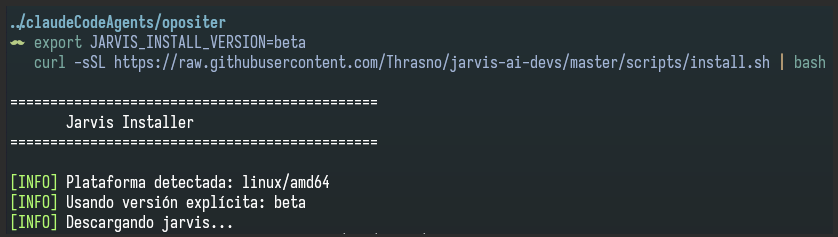
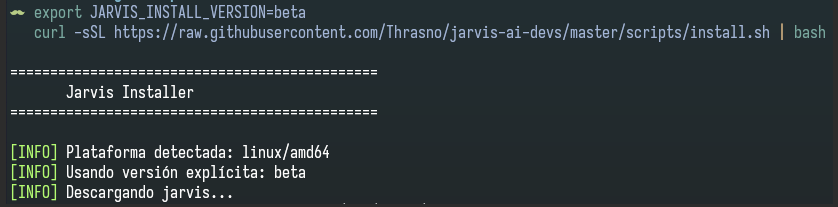
docs(onboarding): show beta installer and focus installation guides

diff --git a/docs/presentaciones/ubuntu-onboarding.html b/docs/presentaciones/ubuntu-onboarding.html
@@ -53,25 +53,22 @@ footer{padding:1rem 0 2rem;color:var(--muted)}
 </div>
 <p class="kicker">Jarvis · Ubuntu/Linux · guía editable</p>
 <h1>Tu primera sesión con Jarvis</h1>
-<p>Un recorrido sugerido para instalar, configurar y comprobar Jarvis. Los hitos de los primeros 15 minutos son orientativos, no tiempos garantizados ni resultados de una instalación observada.</p>
+<p>Un recorrido sugerido para preparar, instalar y configurar Jarvis. Los pasos son orientativos, no tiempos garantizados ni resultados de una instalación observada.</p>
 </header>
 <main id="contenido">
 <section aria-labelledby="ruta">
-<h2 id="ruta">Ruta orientativa de los primeros 15 minutos</h2>
-<p>Hitos sugeridos, no plazos ni resultados observados. Detente si necesitas soporte.</p>
+<h2 id="ruta">Ruta orientativa de instalación</h2>
+<p>Pasos sugeridos, no plazos ni resultados observados. Detente si necesitas soporte.</p>
 <ol>
 <li><strong>Preparar:</strong> confirma terminal, red y agente elegido. Criterio observable: puedes abrir la terminal e identificar la integración prevista.</li>
 <li><strong>Instalar:</strong> ejecuta el comando documentado. Criterio observable: la terminal reconoce <code>jarvis</code> o registras el fallo.</li>
 <li><strong>Configurar:</strong> abre <code>jarvis</code>. Criterio observable: completas el asistente o identificas dónde se detuvo.</li>
-<li><strong>Verificar:</strong> ejecuta <code>jarvis verify --provider all</code>. Criterio observable: obtienes diagnósticos reales, incluso si muestran incidencias; esto no acredita memoria ni sincronización.</li>
 </ol>
 </section>
 <nav aria-label="Contenido"><strong>En esta guía</strong><ul>
 <li><a href="#antes">Antes de empezar</a></li>
 <li><a href="#instalar">Instalar</a></li>
 <li><a href="#configurar">Configurar</a></li>
-<li><a href="#comprobar">Comprobar</a></li>
-<li><a href="#seguir">Continuar</a></li>
 <li><a href="glosario-jarvis.html">Glosario de Jarvis</a></li>
 </ul></nav>
 <section id="antes">
@@ -83,8 +80,12 @@ footer{padding:1rem 0 2rem;color:var(--muted)}
 <h2>2. Hito sugerido: instalar</h2>
 <p>En la terminal, ejecuta el instalador documentado para la última versión de producción publicada. Revisa el origen del script según la política de tu organización. Este comando no acredita por sí solo una instalación limpia verificada.</p>
 <pre><code>curl -sSL https://raw.githubusercontent.com/Thrasno/jarvis-ai-devs/master/scripts/install.sh | bash</code></pre>
+<p><strong>Opcional: canal beta (no producción).</strong> Si tu equipo te ha indicado probar la beta, usa estos comandos en la terminal en lugar del anterior. La variable selecciona la versión pública <code>beta</code>; no es el procedimiento de instalación estable.</p>
+<pre><code>export JARVIS_INSTALL_VERSION=beta
+curl -sSL https://raw.githubusercontent.com/Thrasno/jarvis-ai-devs/master/scripts/install.sh | bash</code></pre>
 <p>Según la documentación, el instalador instala en <code>/usr/local/bin</code>. Comprueba que esa ubicación esté en el PATH; si hay problemas de permisos o descarga, no cambies la política del sistema a ciegas: consulta con soporte.</p>
-<figure><div class="placeholder">[INSERTAR CAPTURA AQUI] #Captura instalación en terminal Ubuntu sin datos personales</div><figcaption>Insertar una captura real del instalador, no una salida ilustrativa.</figcaption></figure>
+<figure><img src="capturas/BetaInstallerStart.png" alt="Inicio del instalador beta en terminal Linux/amd64: versión beta seleccionada y descarga de Jarvis en curso"><figcaption>Inicio observado del instalador beta en Linux/amd64; la descarga está en curso. No demuestra una instalación finalizada.</figcaption></figure>
+<p class="callout"><strong>Alcance de la evidencia:</strong> la captura muestra solo el inicio de la descarga beta en Linux/amd64. No acredita una instalación completa ni el resultado del instalador estable; las capturas del asistente tampoco prueban esos resultados.</p>
 </section>
 <section id="configurar">
 <h2>3. Hito sugerido: primera configuración</h2>
@@ -102,29 +103,8 @@ footer{padding:1rem 0 2rem;color:var(--muted)}
 <figure><img src="capturas/MCPConfirmation.png" alt="Advertencia sobre sustitución de MCP gestionados con el mismo nombre"><figcaption>Si aparece esta advertencia, revisa la posible sustitución de configuraciones MCP manuales antes de confirmar; no sigas a ciegas.</figcaption></figure>
 <figure><img src="capturas/StatusLineConfig.png" alt="Pregunta sobre sobrescribir una barra de estado de Claude existente"><figcaption>Solo si ya existe una barra de estado de Claude: decide si conservarla o sustituirla por la gestionada por Jarvis.</figcaption></figure>
 </section>
-<section id="comprobar">
-<h2>4. Hito sugerido: verificar</h2>
-<p>Después de completar el asistente, utiliza Jarvis para comprobar las configuraciones disponibles:</p>
-<pre><code>jarvis verify --provider all</code></pre>
-<p><strong>Qué significa:</strong> el comando aporta diagnósticos de la configuración local. Revisa los resultados para distinguir integraciones configuradas de proveedores no seleccionados o pendientes. Una ejecución sin errores relevantes para tu integración no demuestra por sí sola autenticación del agente, arranque de Hive, sincronización compartida ni persistencia de memoria.</p>
-<figure><div class="placeholder">[INSERTAR CAPTURA AQUI] #Captura salida real de jarvis verify --provider all en Ubuntu</div><figcaption>Incluir el resultado observado y las incidencias, si las hubiera; no fabricar una salida «correcta».</figcaption></figure>
-<p class="callout"><strong>Evidencia pendiente:</strong> las capturas del asistente compartido no sustituyen las capturas de instalación, de <code>jarvis verify</code> ni de una incidencia observada en Ubuntu. Faltan esos resultados verificables y la primera experiencia de memoria en el equipo de destino. La prueba de memoria con el agente se mostrará en la demo o sesión individual; esta guía no la da por superada.</p>
-<h3>Si algo falla</h3>
-<p>Si falla la descarga, comprueba la red y el acceso al origen con soporte. Si <code>jarvis</code> no se encuentra, comprueba el PATH y los permisos de instalación sin alterar la seguridad del sistema. Si la verificación señala una integración, revisa la selección en <code>jarvis</code> y consulta <a href="../installation.md">instalación</a>, <a href="../getting-started.md">primeros pasos</a> y <a href="../configuration.md">configuración</a>; traslada el mensaje exacto, sin credenciales, al equipo responsable.</p>
-<figure><div class="placeholder">[INSERTAR CAPTURA AQUI] #Captura diagnóstico de error o integración pendiente en Ubuntu</div><figcaption>Usar solo si esa incidencia se observa realmente.</figcaption></figure>
-</section>
-<section id="seguir">
-<h2>5. Elige tu siguiente paso</h2>
-<ul>
-<li><strong>Desarrollador:</strong> abre un repositorio de prueba con el agente seleccionado y comprueba que carga la configuración generada.</li>
-<li><strong>Responsable de equipo:</strong> acuerda con el grupo qué agente se configurará y reúne incidencias de la verificación sin recopilar secretos.</li>
-<li><strong>Administrador de Hive:</strong> prepara por separado el daemon local y, si procede, las credenciales y políticas del Hive API; consulta <a href="../configuration.md">configuración</a>.</li>
-<li><strong>Evaluador:</strong> anota versión, selección y resultado real de verificación, incluidos los pasos no comprobados.</li>
-<li><strong>Formador:</strong> reserva una demostración guiada del comportamiento de memoria a través del agente; no presentes una captura pendiente como prueba.</li>
-</ul>
-</section>
 </main>
-<footer><p><strong>Editar esta fuente:</strong> abre este archivo HTML en un editor de texto. Sustituye los marcadores pendientes por imágenes locales sanitizadas, por ejemplo <code>&lt;img src="capturas/instalacion-ubuntu.png" alt="Resultado real del instalador en Ubuntu"&gt;</code>, con texto alternativo descriptivo; guarda la imagen junto a la guía antes de distribuirla sin conexión. No insertes secretos, rutas personales ni imágenes remotas. Actualiza también las afirmaciones de evidencia tras la prueba.</p></footer>
+<footer><p><strong>Editar esta fuente:</strong> abre este archivo HTML en un editor de texto. Si se añaden capturas reales del resultado, guárdalas como imágenes locales sanitizadas junto a la guía e incluye texto alternativo descriptivo. No insertes secretos, rutas personales ni imágenes remotas. Actualiza las afirmaciones de evidencia tras la prueba.</p></footer>
 </div>
 </body>
 </html>

diff --git a/docs/presentaciones/windows-onboarding.html b/docs/presentaciones/windows-onboarding.html
@@ -53,25 +53,22 @@ footer{padding:1rem 0 2rem;color:var(--muted)}
 </div>
 <p class="kicker">Jarvis · Windows PowerShell · guía editable</p>
 <h1>Tu primera sesión con Jarvis</h1>
-<p>Un recorrido sugerido para instalar, configurar y comprobar Jarvis. Los hitos de los primeros 15 minutos son orientativos, no tiempos garantizados ni resultados de una instalación observada.</p>
+<p>Un recorrido sugerido para preparar, instalar y configurar Jarvis. Los pasos son orientativos, no tiempos garantizados ni resultados de una instalación observada.</p>
 </header>
 <main id="contenido">
 <section aria-labelledby="ruta">
-<h2 id="ruta">Ruta orientativa de los primeros 15 minutos</h2>
-<p>Hitos sugeridos, no plazos ni resultados observados. Detente si necesitas soporte.</p>
+<h2 id="ruta">Ruta orientativa de instalación</h2>
+<p>Pasos sugeridos, no plazos ni resultados observados. Detente si necesitas soporte.</p>
 <ol>
 <li><strong>Preparar:</strong> confirma terminal, red y agente elegido. Criterio observable: puedes abrir PowerShell e identificar la integración prevista.</li>
 <li><strong>Instalar:</strong> ejecuta el comando documentado. Criterio observable: PowerShell reconoce <code>jarvis</code> o registras el fallo.</li>
 <li><strong>Configurar:</strong> abre <code>jarvis</code>. Criterio observable: completas el asistente o identificas dónde se detuvo.</li>
-<li><strong>Verificar:</strong> ejecuta <code>jarvis verify --provider all</code>. Criterio observable: obtienes diagnósticos reales, incluso si muestran incidencias; esto no acredita memoria ni sincronización.</li>
 </ol>
 </section>
 <nav aria-label="Contenido"><strong>En esta guía</strong><ul>
 <li><a href="#antes">Antes de empezar</a></li>
 <li><a href="#instalar">Instalar</a></li>
 <li><a href="#configurar">Configurar</a></li>
-<li><a href="#comprobar">Comprobar</a></li>
-<li><a href="#seguir">Continuar</a></li>
 <li><a href="glosario-jarvis.html">Glosario de Jarvis</a></li>
 </ul></nav>
 <section id="antes">
@@ -83,8 +80,12 @@ footer{padding:1rem 0 2rem;color:var(--muted)}
 <h2>2. Hito sugerido: instalar</h2>
 <p>Abre PowerShell y ejecuta el instalador documentado para la última versión de producción publicada. Revisa el origen del script según la política de tu organización. Este comando no acredita por sí solo una instalación limpia verificada.</p>
 <pre><code>irm https://raw.githubusercontent.com/Thrasno/jarvis-ai-devs/master/scripts/install.ps1 | iex</code></pre>
+<p><strong>Opcional: canal beta (no producción).</strong> Si tu equipo te ha indicado probar la beta, usa estos comandos en PowerShell en lugar del anterior. La variable selecciona la versión pública <code>beta</code>; no es el procedimiento de instalación estable.</p>
+<pre><code>$env:JARVIS_INSTALL_VERSION = "beta"
+irm https://raw.githubusercontent.com/Thrasno/jarvis-ai-devs/master/scripts/install.ps1 | iex</code></pre>
 <p>Según la documentación, el instalador coloca Jarvis en <code>%LOCALAPPDATA%\Programs\jarvis</code> y añade esa ubicación al PATH de usuario. Si el comando no aparece al terminar, abre una nueva sesión de PowerShell antes de diagnosticar el PATH.</p>
 <figure><div class="placeholder">[INSERTAR CAPTURA AQUI] #Captura instalación en PowerShell sin datos personales</div><figcaption>Insertar una captura real del instalador, no una salida ilustrativa.</figcaption></figure>
+<p class="callout"><strong>Evidencia pendiente:</strong> la captura de inicio del instalador beta disponible para Linux/amd64 no demuestra una instalación finalizada ni acredita el instalador de Windows. Aún falta una captura real de instalación en PowerShell; las capturas del asistente tampoco la sustituyen.</p>
 </section>
 <section id="configurar">
 <h2>3. Hito sugerido: primera configuración</h2>
@@ -101,27 +102,6 @@ footer{padding:1rem 0 2rem;color:var(--muted)}
 <figure><img src="capturas/SDDModelConfirmation.png" alt="Resumen de alcance, persona y modelos por fase con el correo oculto"><figcaption>Comprueba el resumen antes de aplicar los cambios. El correo original está oculto; los modelos y las opciones de confirmación se muestran completos.</figcaption></figure>
 <figure><img src="capturas/MCPConfirmation.png" alt="Advertencia sobre sustitución de MCP gestionados con el mismo nombre"><figcaption>Si aparece esta advertencia, revisa la posible sustitución de configuraciones MCP manuales antes de confirmar; no sigas a ciegas.</figcaption></figure>
 <figure><img src="capturas/StatusLineConfig.png" alt="Pregunta sobre sobrescribir una barra de estado de Claude existente"><figcaption>Solo si ya existe una barra de estado de Claude: decide si conservarla o sustituirla por la gestionada por Jarvis.</figcaption></figure>
-</section>
-<section id="comprobar">
-<h2>4. Hito sugerido: verificar</h2>
-<p>Después de completar el asistente, utiliza Jarvis para comprobar las configuraciones disponibles:</p>
-<pre><code>jarvis verify --provider all</code></pre>
-<p><strong>Qué significa:</strong> el comando aporta diagnósticos de la configuración local. Revisa los resultados para distinguir integraciones configuradas de proveedores no seleccionados o pendientes. Una ejecución sin errores relevantes para tu integración no demuestra por sí sola autenticación del agente, arranque de Hive, sincronización compartida ni persistencia de memoria.</p>
-<figure><div class="placeholder">[INSERTAR CAPTURA AQUI] #Captura salida real de jarvis verify --provider all en Windows</div><figcaption>Incluir el resultado observado y las incidencias, si las hubiera; no fabricar una salida «correcta».</figcaption></figure>
-<p class="callout"><strong>Evidencia pendiente:</strong> las capturas del asistente compartido no sustituyen las capturas de instalación, de <code>jarvis verify</code> ni de una incidencia observada en Windows. Faltan esos resultados verificables y la primera experiencia de memoria en el equipo de destino. La prueba de memoria con el agente se mostrará en la demo o sesión individual; esta guía no la da por superada.</p>
-<h3>Si algo falla</h3>
-<p>Si falla la descarga, comprueba la red, el acceso al origen y las políticas de PowerShell con soporte. Si <code>jarvis</code> no se reconoce, vuelve a abrir PowerShell y comprueba el PATH de usuario. Si la verificación señala una integración, revisa la selección en <code>jarvis</code> y consulta <a href="../installation.md">instalación</a>, <a href="../getting-started.md">primeros pasos</a> y <a href="../configuration.md">configuración</a>; traslada el mensaje exacto, sin credenciales, al equipo responsable.</p>
-<figure><div class="placeholder">[INSERTAR CAPTURA AQUI] #Captura diagnóstico de error o integración pendiente en Windows</div><figcaption>Usar solo si esa incidencia se observa realmente.</figcaption></figure>
-</section>
-<section id="seguir">
-<h2>5. Elige tu siguiente paso</h2>
-<ul>
-<li><strong>Desarrollador:</strong> abre un repositorio de prueba con el agente seleccionado y comprueba que carga la configuración generada.</li>
-<li><strong>Responsable de equipo:</strong> acuerda con el grupo qué agente se configurará y reúne incidencias de la verificación sin recopilar secretos.</li>
-<li><strong>Administrador de Hive:</strong> prepara por separado el daemon local y, si procede, las credenciales y políticas del Hive API; consulta <a href="../configuration.md">configuración</a>.</li>
-<li><strong>Evaluador:</strong> anota versión, selección y resultado real de verificación, incluidos los pasos no comprobados.</li>
-<li><strong>Formador:</strong> reserva una demostración guiada del comportamiento de memoria a través del agente; no presentes una captura pendiente como prueba.</li>
-</ul>
 </section>
 </main>
 <footer><p><strong>Editar esta fuente:</strong> abre este archivo HTML en un editor de texto. Sustituye los marcadores pendientes por imágenes locales sanitizadas, por ejemplo <code>&lt;img src="capturas/instalacion-windows.png" alt="Resultado real del instalador en PowerShell"&gt;</code>, con texto alternativo descriptivo; guarda la imagen junto a la guía antes de distribuirla sin conexión. No insertes secretos, rutas personales ni imágenes remotas. Actualiza también las afirmaciones de evidencia tras la prueba.</p></footer>

diff --git a/odd/tasks/issue-491-editable-installation-guides.md b/odd/tasks/issue-491-editable-installation-guides.md
@@ -4,9 +4,9 @@ Objective: Provide source-editable, standalone Nexus HTML onboarding guides unde
 
 Problem/evidence: Existing `docs/getting-started.md` and `docs/installation.md` cover text-only quick starts, but #491 requests visual onboarding. The user explicitly chose standalone HTML as the editable format, confirmed the clean platform installs happened on test machines, and will insert actual sanitized captures where placeholders are provided. This work must not invent screenshots, observed timings, product success or transparent memory persistence.
 
-Scope: `docs/presentaciones/windows-onboarding.html`, `docs/presentaciones/ubuntu-onboarding.html`, shared sanitized PNGs under `docs/presentaciones/capturas/`, a local ZIP-ignore rule, plus existing entry links from `docs/getting-started.md` and `docs/installation.md`. User now supplied ten actual wizard PNGs in `capturas/pantallasJarvisDevs.zip` and explicitly authorized embedding the shared flow in both guides. Do not change the original ZIP or treat wizard screenshots as proof of platform-specific installer/verify commands. Match the Nexus brand from `docs/advisory-review-lite-audit.html`; inline CSS/SVG, no external runtime dependencies. Only unsupplied evidence remains marked `[INSERTAR CAPTURA AQUI] #Captura <specific subject>`; supplied wizard screenshots replace their matching placeholders. HTML source stays editable in an ordinary text editor; do not generate a locked PDF/PPT. Include product-accurate install commands, prerequisites, wizard choices as observed/conditional, verification, failure route and role-next-step example. Do not teach manual memory commands as a novice task; the user reserves the memory demonstration for team demo/1:1 sessions.
+Scope: `docs/presentaciones/windows-onboarding.html`, `docs/presentaciones/ubuntu-onboarding.html`, shared sanitized PNGs under `docs/presentaciones/capturas/`, a local ZIP-ignore rule, plus existing entry links from `docs/getting-started.md` and `docs/installation.md`. User now supplied ten actual wizard PNGs in `capturas/pantallasJarvisDevs.zip` and explicitly authorized embedding the shared flow in both guides. Do not change the original ZIP or treat wizard screenshots as proof of platform-specific installer/verify commands. Match the Nexus brand from `docs/advisory-review-lite-audit.html`; inline CSS/SVG, no external runtime dependencies. Only unsupplied evidence remains marked `[INSERTAR CAPTURA AQUI] #Captura <specific subject>`; supplied wizard screenshots replace their matching placeholders. HTML source stays editable in an ordinary text editor; do not generate a locked PDF/PPT. Keep product-accurate install commands, prerequisites, wizard choices as observed/conditional, and accurate evidence limits; earlier verification, failure-route and role-next-step sections are superseded by the user's narrower installation-guide scope. Do not teach manual memory commands as a novice task; the user reserves the memory demonstration for team demo/1:1 sessions.
 
-Acceptance: Both HTML files open offline, render on narrow screens and print, use accurate source-backed commands and unambiguous screenshot slots, distinguish expected from observed output, disclose missing field evidence, and do not claim WSL is separately certified. First-15-minute route is a brief self-guided section shared conceptually with demo; role-next-step has concrete developer/lead/admin/evaluator/trainer examples. Existing docs link to both guides. Parent #491 remains open with `status:needs-review`; these guides do not complete its seven evidence cases.
+Acceptance: Both HTML files open offline, render on narrow screens and print, use accurate source-backed commands and unambiguous screenshot slots, distinguish expected from observed output, disclose missing field evidence, and do not claim WSL is separately certified. Installation guides stop after configuration (section 3); verification/troubleshooting and role-next-step content do not belong here under the user's latest decision. Existing docs link to both guides. Parent #491 remains open with `status:needs-review`; these guides do not complete its seven evidence cases.
 
 Testing: `openspec/config.yaml` sets strict TDD for implementation, but these are static documentation only. Verify links, placeholder count/labels, HTML structure, product commands against existing docs, and diff whitespace; no Go build/test necessary. Actual clean-install and browser E2E evidence is user-provided/pending. No fabricated RED behavior evidence for a docs-only change.
 
@@ -20,7 +20,10 @@ Delivery: user explicitly chose existing PR #766 (`docs/issue-491-onboarding-che
 - [x] T4 (delegated writer): Extracted and visually checked ten stripped shared wizard PNGs; the private email is masked in Hive Cloud and full model-review screens, terminal tabs and absolute paths are cropped from reset screenshot, ZIP is untouched and Git-ignored. OCR was unavailable (Tesseract language data missing); independent privacy readback still pending.
 - [x] T5 (delegated writer): Embedded all ten shared wizard steps in both HTML guides with alt/captions and WSL/Linux provenance (not Windows-specific evidence). Install, `jarvis verify` and observed-error placeholders remain pending; evidence note updated.
 - [x] T6 (independent verifier): All ten PNGs visually inspected; both guides contain ten valid local image/alt links and retain three honest placeholders. PNG chunk parsing found no ancillary metadata; ZIP is Git-ignored; untracked HTML passed explicit whitespace and HTMLParser link checks. OCR was unavailable (afr/osd only). Browser/print rendering, device install/verify and live memory demo remain pending.
+- [x] T7 (delegated writer; multi-file write trigger): Added optional runbook-exact beta commands alongside stable commands in both section 2s, cropped the top terminal path row and re-encoded `BetaInstallerStart.png`, and embedded it only in Ubuntu as Linux beta download-start evidence. Windows retains its installation placeholder. Independent verifier: HTMLParser links/images pass (Windows 10 images/3 placeholders, Ubuntu 11 images/2 placeholders); PNG visual inspection has no personal path/PII and chunks only IHDR/IDAT/IEND; `git diff --check` passes. No browser/print or live install run. Static documentation: strict SDD TDD not applicable; no RED claim or Go test/build. Forecast ~35 authored diff lines; user authorized commit/push to existing draft PR, not merge.
+- [x] T9 (delegated writer; multi-file write trigger): Removed sections 4 (verification/troubleshooting) and 5 (role continuations) and their navigation links from both guides; section 2 retains precise beta-start-only caveats. No new troubleshooting guide created. Corrected final HTMLParser check passes for both: four headings (route plus sections 1–3), Windows 10 images/one placeholder, Ubuntu 11 images/no placeholders, all local image and anchor links valid. `git diff --check` passes. An initial verification script failed because it counted literal `<h2>` rather than `<h2 id="ruta">`; corrected rerun passed. Browser/print and live install still pending. This user decision supersedes earlier role-next-step acceptance in these guides.
+- [ ] T8 (parent delivery): Verify the work-unit commit and current remote head, push to PR #766 without force, confirm PR files and updated preview links; record check/pending evidence and commit ID. Risk assessment/review follows the user-owned RDD switch.
 
 ## Progress and next step
 
-User chose standalone HTML. Existing #491 acceptance for observed first memory save/recovery remains unresolved by these installation guides: user will demonstrate that in a team demo and one-to-one sessions; don't silently claim the parent issue is complete. T1/T2/T3 drafts, links and static checks are complete. The user supplied ten real wizard screenshots in a local ZIP on 2026-09-28; all ten are now sanitized local assets and linked in both guides. Raw images show a private email and repeated absolute home paths, so they must never be linked or committed as-is. The ZIP is ignored and preserved unchanged. Parent and independent visual readback confirmed opaque masks and legible confirmation UI; no privacy leak was observed. Independent static verification passed, but OCR was unavailable and no browser/print rendering was run. Installation-command and `jarvis verify` screenshots remain unsupplied, as do measured results; do not claim the guides are field-validated. Browser/print visual QA remains pending. Parent #491 still needs review and its observed memory evidence remains deferred to demo/1:1. The user explicitly requested publication into PR #766, subject to the privacy and structural checks recorded above; parent #491 is not closed.
+User chose standalone HTML. Existing #491 acceptance for observed first memory save/recovery remains unresolved by these installation guides: user will demonstrate that in a team demo and one-to-one sessions; don't silently claim the parent issue is complete. T1/T2/T3 drafts, links and static checks are complete. The user supplied ten real wizard screenshots in a local ZIP on 2026-09-28; all ten are now sanitized local assets and linked in both guides. Raw images show a private email and repeated absolute home paths, so they must never be linked or committed as-is. The ZIP is ignored and preserved unchanged. Parent and independent visual readback confirmed opaque masks and legible confirmation UI; no privacy leak was observed. Independent static verification passed, but OCR was unavailable and no browser/print rendering was run. A new Linux/amd64 beta installer-start image was uploaded directly to PR #766 at 1f5a15ff; its original commit contains a visible terminal working-directory row, so the current PR tip replaces it with a cropped and metadata-stripped version. The previous commit remains in Git history; no history rewrite is authorized. No completed installation or `jarvis verify` screenshots are supplied, nor measured results; do not claim the guides are field-validated. Browser/print visual QA remains pending. User removed verification/troubleshooting and role-next-step sections from both guides; no troubleshooting guide was created. Parent #491 still needs review and its observed memory evidence remains deferred to demo/1:1. The user explicitly requested publication into PR #766, subject to the privacy and structural checks recorded above; parent #491 is not closed.
